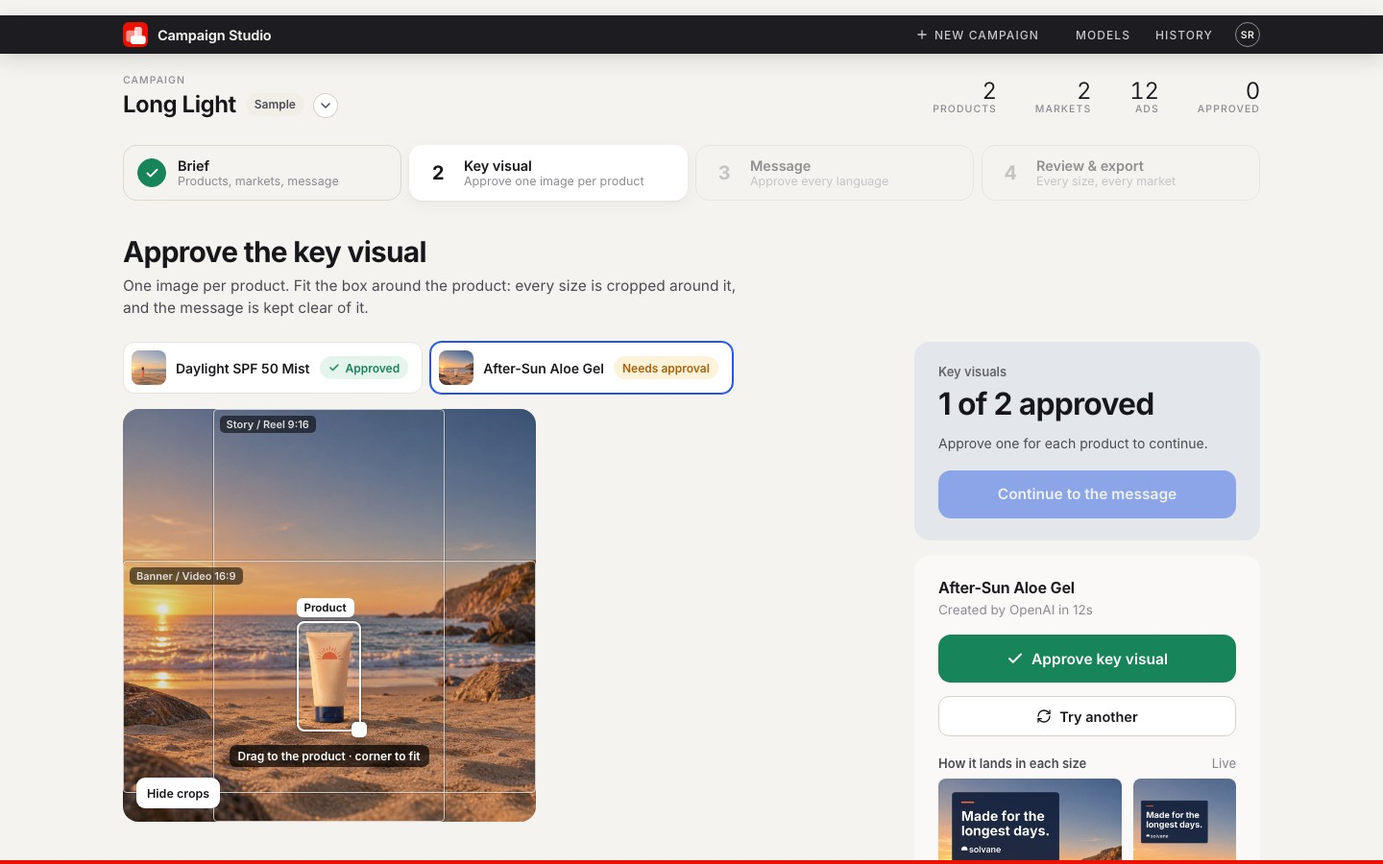
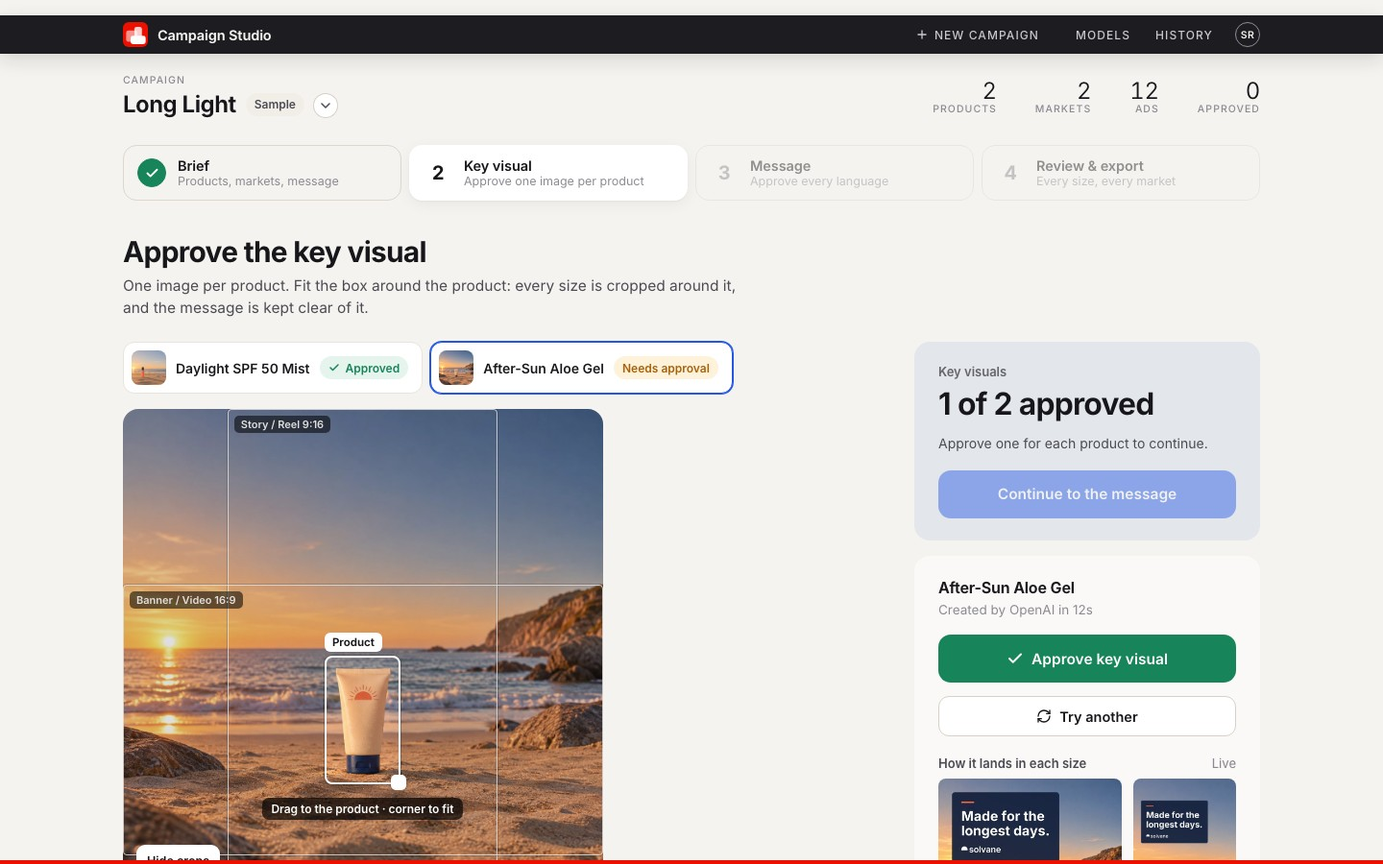
Grow the key visual image to 500px
With the bottom bar gone there is room for it: the image is sized to the
window, 500px at 900px tall. The README screenshot is retaken to match.

Changed region(s): [[0.0625, 0.4667, 0.4375, 0.9956], [0.1562, 0.4667, 0.25, 0.4978]]

diff --git a/web/dist/assets/index-BcPyHxCU.css b/web/dist/assets/index-BcPyHxCU.css
@@ -1,0 +1,1 @@
+@font-face{font-family:Inter Variable;font-style:normal;font-display:swap;font-weight:100 900;src:url(/assets/inter-cyrillic-ext-wght-normal-B2xhLi22.woff2) format("woff2-variations");unicode-range:U+0460-052F,U+1C80-1C88,U+20B4,U+2DE0-2DFF,U+A640-A69F,U+FE2E-FE2F}@font-face{font-family:Inter Variable;font-style:normal;font-display:swap;font-weight:100 900;src:url(/assets/inter-cyrillic-wght-normal-CMZtQduZ.woff2) format("woff2-variations");unicode-range:U+0301,U+0400-045F,U+0490-0491,U+04B0-04B1,U+2116}@font-face{font-family:Inter Variable;font-style:normal;font-display:swap;font-weight:100 900;src:url(/assets/inter-greek-ext-wght-normal-CGAr0uHJ.woff2) format("woff2-variations");unicode-range:U+1F00-1FFF}@font-face{font-family:Inter Variable;font-style:normal;font-display:swap;font-weight:100 900;src:url(/assets/inter-greek-wght-normal-CaVNZxsx.woff2) format("woff2-variations");unicode-range:U+0370-0377,U+037A-037F,U+0384-038A,U+038C,U+038E-03A1,U+03A3-03FF}@font-face{font-family:Inter Variable;font-style:normal;font-display:swap;font-weight:100 900;src:url(/assets/inter-vietnamese-wght-normal-CBcvBZtf.woff2) format("woff2-variations");unicode-range:U+0102-0103,U+0110-0111,U+0128-0129,U+0168-0169,U+01A0-01A1,U+01AF-01B0,U+0300-0301,U+0303-0304,U+0308-0309,U+0323,U+0329,U+1EA0-1EF9,U+20AB}@font-face{font-family:Inter Variable;font-style:normal;font-display:swap;font-weight:100 900;src:url(/assets/inter-latin-ext-wght-normal-CFHvXkgd.woff2) format("woff2-variations");unicode-range:U+0100-02AF,U+0304,U+0308,U+0329,U+1E00-1E9F,U+1EF2-1EFF,U+2020,U+20A0-20AB,U+20AD-20C0,U+2113,U+2C60-2C7F,U+A720-A7FF}@font-face{font-family:Inter Variable;font-style:normal;font-display:swap;font-weight:100 900;src:url(/assets/inter-latin-wght-normal-C2S99t-D.woff2) format("woff2-variations");unicode-range:U+0000-00FF,U+0131,U+0152-0153,U+02BB-02BC,U+02C6,U+02DA,U+02DC,U+0304,U+0308,U+0329,U+2000-206F,U+2074,U+20AC,U+2122,U+2191,U+2193,U+2212,U+2215,U+FEFF,U+FFFD}:root{--bg: #f5f3ef;--surface: #ffffff;--surface-2: #faf9f6;--ink: #17171b;--ink-2: #4b4b53;--ink-3: #8b8a92;--line: #e8e4dd;--line-strong: #d7d1c7;--hover: #f1eee8;--tile: #ebe7e0;--step-line: #ddd7cd;--focus: #2f6bff;--action: #2456e6;--action-hover: #1c46c4;--action-ring: rgba(36, 86, 230, .16);--adobe: #eb1000;--adobe-bg: #fdecea;--ok: #17845a;--ok-bg: #e5f4ec;--warn: #a8610a;--warn-bg: #fff2db;--fail: #c4311c;--fail-bg: #fde8e3;--radius: 16px;--radius-sm: 10px;--shadow: 0 1px 2px rgba(23, 23, 27, .04), 0 4px 16px rgba(23, 23, 27, .05);--shadow-lg: 0 2px 6px rgba(23, 23, 27, .06), 0 24px 60px rgba(23, 23, 27, .16);font-family:Inter Variable,system-ui,-apple-system,Segoe UI,sans-serif;font-feature-settings:"cv11","ss01";color:var(--ink);background:var(--bg);-webkit-font-smoothing:antialiased}*{box-sizing:border-box}html,body,#root{margin:0;min-height:100%}body{background:var(--bg)}button,input,textarea,select{font:inherit;color:inherit}img{display:block;max-width:100%}:focus-visible{outline:2px solid var(--focus);outline-offset:2px;border-radius:6px}:root{--bar-gap: 16px;--bar-h: 40px;--bar-bg: #1d1d21;--bar-ink: #f4f3f0;--bar-ink-2: #c9c8ce;--bar-ink-3: #8f8e96;--bar-hover: rgba(255, 255, 255, .08)}.topbar{position:sticky;top:var(--bar-gap);z-index:30;margin-top:var(--bar-gap);display:flex;align-items:center;gap:16px;height:var(--bar-h);padding:0 max(16px,calc((100% - 1184px)/2));background:var(--bar-bg);color:var(--bar-ink);box-shadow:0 6px 20px #17171b24}.topbar-left{display:flex;align-items:center;gap:10px;min-width:0}.wordmark{font-size:14.5px;font-weight:650;letter-spacing:-.01em;white-space:nowrap}.wordmark-mark{width:26px;height:26px;border-radius:6px;background:var(--adobe);color:#fff;display:grid;place-items:center;flex:none}.topbar .spacer{flex:1}.topbar .menu{color:var(--ink)}.topbar-right{display:flex;align-items:center;gap:4px}.bar-link{display:inline-flex;align-items:center;gap:6px;height:28px;padding:0 11px;border:0;border-radius:7px;background:transparent;cursor:pointer;font-size:12px;font-weight:500;letter-spacing:.09em;text-transform:uppercase;color:var(--bar-ink-2)}.bar-link:hover,.bar-link[aria-expanded=true]{color:var(--bar-ink);background:var(--bar-hover)}.new-campaign-slot{margin-right:12px}.menu.new-campaign-form{min-width:340px;padding:10px}.avatar{width:26px;height:26px;border-radius:50%;cursor:pointer;margin-left:8px;padding:0;display:grid;place-items:center;font-size:10.5px;font-weight:600;letter-spacing:.03em;background:transparent;color:var(--bar-ink);border:1.5px solid var(--bar-ink-3);transition:border-color .15s}.avatar:hover,.avatar[aria-expanded=true]{border-color:var(--bar-ink)}.camphead-inner{max-width:1240px;margin:0 auto;padding:22px 28px 4px}.camphead-row{display:flex;align-items:center;justify-content:space-between;gap:32px}.camphead-title{flex:1;min-width:0}.campaign-slot{position:relative}.camphead-title .campaign-slot{display:flex;align-items:center}.campaign-switch{display:inline-flex;align-items:center;gap:10px;max-width:100%;padding:0;border:0;background:transparent;cursor:pointer;color:inherit;text-align:left}.campaign-name{font-size:24px;line-height:1.2;font-weight:650;letter-spacing:-.02em;white-space:nowrap;overflow:hidden;text-overflow:ellipsis}.campaign-switch .badge{flex:none}.campaign-chevron{flex:none;width:24px;height:24px;border-radius:50%;display:grid;place-items:center;margin-top:2px;background:var(--surface);color:var(--ink-2);box-shadow:0 0 0 1px var(--line-strong);transition:box-shadow .15s,color .15s}.campaign-switch:hover .campaign-chevron,.campaign-switch[aria-expanded=true] .campaign-chevron{box-shadow:0 0 0 1px var(--ink-3),var(--shadow);color:var(--ink)}.camp-stats{display:flex;gap:40px;margin:0}.camp-stat{display:flex;flex-direction:column;align-items:flex-end;text-align:right}.camp-stat dd{margin:0;font-size:24px;line-height:1.15;font-weight:350;letter-spacing:-.01em;font-variant-numeric:tabular-nums}.camp-label{font-size:10.5px;line-height:1.2;font-weight:500;letter-spacing:.1em;text-transform:uppercase;color:var(--ink-3);margin-bottom:4px}.camp-stat dt{font-size:10.5px;line-height:1.2;font-weight:500;letter-spacing:.1em;text-transform:uppercase;color:var(--ink-3)}.stepper{display:grid;grid-template-columns:repeat(4,1fr);gap:8px;max-width:1240px;margin:24px auto 0;padding:0 28px}.step{position:relative;display:flex;align-items:center;gap:12px;padding:12px 14px;border-radius:14px;border:1px solid transparent;background:transparent;cursor:pointer;text-align:left}.step{transition:background .15s,box-shadow .15s}.step{border-color:var(--step-line)}.step:not(:disabled):hover{background:var(--tile)}.step:disabled{cursor:default;opacity:.45}.step.current,.step.current:hover{background:var(--surface);border-color:transparent;box-shadow:var(--shadow)}.step-num{width:30px;height:30px;flex:none;border-radius:50%;display:grid;place-items:center;font-size:20px;font-weight:700;letter-spacing:-.02em;border:1.5px solid transparent;color:var(--ink-3);background:transparent;font-variant-numeric:tabular-nums}.step.current .step-num{color:var(--ink)}.step.done .step-num{background:var(--ok);border-color:var(--ok);color:#fff}.step-text{display:flex;flex-direction:column;min-width:0}.step-title{font-weight:600;font-size:14.5px;letter-spacing:-.005em}.step-sub{font-size:12.5px;color:var(--ink-3);white-space:nowrap;overflow:hidden;text-overflow:ellipsis}.page{max-width:1240px;margin:0 auto;padding:28px 28px 72px}.page-head{display:flex;align-items:flex-end;justify-content:space-between;gap:24px;margin:8px 0 24px}.page-head h1{font-size:30px;line-height:1.15;letter-spacing:-.025em;font-weight:680;margin:0 0 6px}.page-head p{margin:0;color:var(--ink-2);font-size:15.5px;max-width:640px;line-height:1.5}.grid-2{display:grid;grid-template-columns:minmax(0,1fr) 360px;gap:24px;align-items:start}.grid-2>aside.stack{gap:16px}@media (max-width: 1000px){.grid-2{grid-template-columns:1fr}.grid-2 .sticky{position:static}}.card{--card-rest: rgba(255, 255, 255, .5);--card-lift: 0 2px 6px rgba(23, 23, 27, .06), 0 14px 36px rgba(23, 23, 27, .12);background:var(--card-rest);border:1px solid transparent;border-radius:var(--radius);transition:background .2s,box-shadow .2s}.card:hover,.card:focus-within{background:var(--surface);box-shadow:var(--card-lift)}.card-pad{padding:22px 24px}.summary-panel{--summary-bg: #e3e6ea;--ink-3: #65646c;padding:22px 24px;border:1px solid transparent;border-radius:var(--radius);background:var(--summary-bg)}.card+.card{margin-top:16px}.card-title{display:flex;align-items:center;justify-content:space-between;gap:12px;margin:0 0 4px;font-size:16px;font-weight:640;letter-spacing:-.01em}.card-hint{margin:0 0 18px;color:var(--ink-3);font-size:13.5px;line-height:1.45}.sticky{position:sticky;top:calc(var(--bar-gap) + var(--bar-h) + 20px)}.muted{color:var(--ink-3)}.small{font-size:13px}.row{display:flex;align-items:center;gap:10px}.row-wrap{display:flex;flex-wrap:wrap;gap:8px}.stack{display:flex;flex-direction:column;gap:14px}.space{flex:1}.field{display:flex;flex-direction:column;gap:7px}.field+.field{margin-top:16px}.label{font-size:13px;font-weight:600;color:var(--ink-2);display:flex;justify-content:space-between}.label .muted{font-weight:450}.input,.textarea{width:100%;border:1px solid var(--line-strong);border-radius:var(--radius-sm);background:var(--surface);padding:11px 13px;font-size:15px;line-height:1.45;transition:border-color .15s,box-shadow .15s}.textarea{resize:vertical;min-height:80px}.input:hover,.textarea:hover{border-color:var(--ink-3)}.input:focus,.textarea:focus{outline:none;border-color:var(--action);box-shadow:0 0 0 3px var(--action-ring)}.input.big{font-size:22px;font-weight:620;letter-spacing:-.015em;padding:12px 14px}.input.invalid,.textarea.invalid{border-color:var(--fail)}.field-note{font-size:12.5px;color:var(--ink-3)}.field-note.fail{color:var(--fail)}a.btn{text-decoration:none}.btn{display:inline-flex;align-items:center;justify-content:center;gap:8px;height:42px;padding:0 18px;border-radius:11px;border:1px solid transparent;font-size:14.5px;font-weight:600;cursor:pointer;white-space:nowrap;transition:background .15s,border-color .15s,transform .05s,opacity .15s}.btn:active:not(:disabled){transform:translateY(1px)}.btn:disabled{opacity:.45;cursor:not-allowed}.btn-primary{background:var(--action);color:#fff}.btn-primary:hover:not(:disabled){background:var(--action-hover)}.btn-approve{background:var(--ok);color:#fff}.btn-approve:hover:not(:disabled){background:#106e4a}.btn-secondary{background:var(--surface);border-color:var(--line-strong);color:var(--ink)}.btn-secondary:hover:not(:disabled){border-color:var(--ink-3);background:var(--surface-2)}.btn-ghost{background:transparent;color:var(--ink-2)}.btn-ghost:hover:not(:disabled){background:var(--hover);color:var(--ink)}.btn-danger{background:var(--surface);border-color:var(--line-strong);color:var(--fail)}.btn-danger:hover:not(:disabled){border-color:var(--fail);background:var(--fail-bg)}.btn-lg{height:50px;padding:0 24px;font-size:15.5px;border-radius:13px}.btn-sm{height:34px;padding:0 12px;font-size:13.5px;border-radius:9px}.btn-block{width:100%}.icon-btn{width:34px;height:34px;padding:0;border-radius:9px}.badge{display:inline-flex;align-items:center;gap:6px;height:24px;padding:0 9px;border-radius:999px;font-size:12px;font-weight:600;white-space:nowrap;background:var(--hover);color:var(--ink-2)}.badge.ok{background:var(--ok-bg);color:var(--ok)}.badge.warn{background:var(--warn-bg);color:var(--warn)}.badge.fail{background:var(--fail-bg);color:var(--fail)}.market-chip{display:inline-flex;align-items:center;gap:8px;height:38px;padding:0 8px 0 12px;border-radius:999px;border:1px solid var(--line-strong);background:var(--surface);font-size:14px;font-weight:550}.market-chip .flag{font-size:12px;font-weight:700;color:var(--ink-3);letter-spacing:.04em}.market-chip button{border:0;background:transparent;width:24px;height:24px;border-radius:50%;display:grid;place-items:center;cursor:pointer;color:var(--ink-3)}.market-chip button:hover{background:var(--hover);color:var(--ink)}.add-market{position:relative}.menu{position:absolute;z-index:40;top:calc(100% + 6px);left:0;min-width:240px;background:var(--surface);border:1px solid var(--line);border-radius:12px;box-shadow:var(--shadow-lg);padding:6px;max-height:320px;overflow:auto}.menu-item{display:flex;width:100%;align-items:center;justify-content:space-between;gap:10px;padding:9px 10px;border:0;background:transparent;border-radius:8px;cursor:pointer;text-align:left;font-size:14px}.menu-item:hover{background:var(--hover)}.menu-row{display:flex;align-items:center;gap:2px}.menu-row .menu-item{flex:1;min-width:0}.menu-row-delete{flex:none;width:32px;height:32px;border:0;border-radius:8px;background:transparent;color:var(--ink-3);cursor:pointer;display:grid;place-items:center;opacity:0}.menu-row:hover .menu-row-delete,.menu-row-delete:focus-visible{opacity:1}.menu-row-delete:hover{background:var(--fail-bg);color:var(--fail)}@media (hover: none){.menu-row-delete{opacity:1}}.menu-confirm{display:flex;flex-direction:column;gap:8px;padding:10px;margin:2px 0;border-radius:8px;background:var(--fail-bg);font-size:13.5px;line-height:1.4}.menu-confirm .row{justify-content:flex-end}.menu-item .muted{font-size:12.5px}.product-card-head{grid-column:1 / -1;display:flex;align-items:center;justify-content:space-between;margin-bottom:-10px}.product-card{display:grid;grid-template-columns:148px minmax(0,1fr);gap:20px;padding:18px;border:1px solid var(--line);border-radius:14px;background:var(--surface-2)}.product-card+.product-card{margin-top:12px}.dropzone{position:relative;width:148px;height:148px;border-radius:12px;overflow:hidden;border:1.5px dashed var(--line-strong);background:var(--surface);display:flex;flex-direction:column;align-items:center;justify-content:center;gap:6px;text-align:center;padding:10px;cursor:pointer;color:var(--ink-3);font-size:12.5px;line-height:1.35;transition:border-color .15s,background .15s}.dropzone:hover,.dropzone.over{border-color:var(--action);color:var(--ink-2);background:var(--hover)}.dropzone img{position:absolute;top:0;right:0;bottom:0;left:0;width:100%;height:100%;object-fit:cover}.dropzone .remove{position:absolute;top:6px;right:6px;z-index:2;width:26px;height:26px;border-radius:50%;border:0;background:#0009;color:#fff;display:grid;place-items:center;cursor:pointer}.dropzone .tag{position:absolute;left:6px;bottom:6px;z-index:2;padding:3px 7px;border-radius:6px;background:#0000009e;color:#fff;font-size:11px;font-weight:600}.swatch{width:34px;height:34px;border-radius:9px;border:1px solid rgba(0,0,0,.08)}.logo-box{height:56px;padding:12px 16px;border-radius:10px;background:var(--surface-2);border:1px solid var(--line);display:inline-flex;align-items:center}.logo-box img{max-height:100%;width:auto}.summary-label{font-size:13px;font-weight:600;color:var(--ink-3);margin-bottom:8px}.summary-figure{font-size:32px;font-weight:650;letter-spacing:-.025em;line-height:1.1}.summary-detail{font-size:14px;color:var(--ink-2);line-height:1.5;margin:12px 0 18px}.equation{display:flex;align-items:center;gap:8px;flex-wrap:wrap;color:var(--ink-2);font-size:14px;margin:12px 0 18px}.equation b{color:var(--ink);font-weight:650}.format-icons{display:grid;grid-template-columns:repeat(3,1fr);align-items:end;gap:10px;margin:6px 0 20px}.format-icon{display:flex;flex-direction:column;align-items:center;gap:6px;font-size:11.5px;color:var(--ink-3)}.format-icon span:first-child{background:var(--ink-2);border-radius:5px;display:block}.format-icon:nth-child(1) span:first-child{opacity:.55}.format-icon:nth-child(2) span:first-child{opacity:.8}.problems{margin:0 0 16px;padding:12px 14px;border-radius:12px;background:var(--warn-bg);color:var(--warn);font-size:13.5px;line-height:1.5}.problems ul{margin:4px 0 0;padding-left:18px}.product-tabs{display:flex;gap:8px;margin-bottom:16px;flex-wrap:wrap}.product-tab{display:flex;align-items:center;gap:10px;padding:8px 14px 8px 8px;border-radius:12px;border:1px solid var(--line);background:var(--surface);cursor:pointer;font-weight:580;font-size:14px}.product-tab img,.product-tab .thumb{width:36px;height:36px;border-radius:8px;object-fit:cover;background:var(--hover)}.product-tab.active{border-color:var(--action);box-shadow:0 0 0 1px var(--action)}.stage{position:relative;border-radius:var(--radius);overflow:hidden;background:#e9e5de;aspect-ratio:1 / 1;-webkit-user-select:none;user-select:none;touch-action:none;width:min(100%,calc(100vh - 400px));min-width:320px}.stage img.loading{opacity:0}.stage img{transition:opacity .2s}.stage-loading{position:absolute;top:0;right:0;bottom:0;left:0;display:grid;place-items:center;color:var(--ink-3);background:linear-gradient(100deg,#e9e5de 30%,#f1ede7,#e9e5de 70%) 0 0 / 300% 100%;animation:shimmer 1.4s linear infinite}@keyframes shimmer{to{background-position:-150% 0}}.stage img{width:100%;height:100%;object-fit:cover;pointer-events:none}.stage.can-drag{cursor:crosshair}.crop-guide{position:absolute;border:1.5px solid rgba(255,255,255,.85);border-radius:4px;pointer-events:none;box-shadow:0 0 0 1px #0000002e;transition:all .2s ease}.crop-guide span{position:absolute;top:6px;left:6px;padding:2px 7px;border-radius:5px;background:#0000008c;color:#fff;font-size:11px;font-weight:600;white-space:nowrap}.crop-guide.dim{border-style:dashed;opacity:.7}.focal{position:absolute;width:46px;height:46px;margin:-23px 0 0 -23px;border-radius:50%;border:2.5px solid #fff;box-shadow:0 0 0 1px #00000040,0 6px 18px #0000004d,inset 0 0 0 1px #00000026;cursor:grab;display:grid;place-items:center;background:#ffffff26;transition:transform .15s}.focal:after{content:"";width:8px;height:8px;border-radius:50%;background:#fff;box-shadow:0 0 0 1px #0000004d}.focal.dragging{cursor:grabbing;transform:scale(1.12)}.product-box{position:absolute;border:2px solid #fff;border-radius:8px;cursor:move;box-shadow:0 0 0 1px #00000040,0 0 0 9999px #0000001f;transition:box-shadow .15s}.product-box.active{box-shadow:0 0 0 1px #00000040,0 0 0 9999px #00000047}.product-box.locked{cursor:default;box-shadow:0 0 0 1px #00000040}.product-box-label{position:absolute;top:-26px;left:-2px;padding:3px 8px;border-radius:6px;background:#fff;color:var(--ink);font-size:11.5px;font-weight:650;white-space:nowrap;pointer-events:none}.product-box-handle{position:absolute;right:-8px;bottom:-8px;width:16px;height:16px;border-radius:5px;background:#fff;box-shadow:0 1px 4px #00000059;cursor:nwse-resize}.focal-label{position:absolute;transform:translate(-50%,14px);padding:4px 9px;border-radius:7px;background:#000000ad;color:#fff;font-size:12px;font-weight:600;white-space:nowrap;pointer-events:none}.stage-toolbar{position:absolute;left:14px;bottom:14px;display:flex;gap:6px}.stage-toolbar button{height:32px;padding:0 11px;border-radius:9px;border:0;cursor:pointer;font-size:12.5px;font-weight:600;background:#0000008c;color:#fff;-webkit-backdrop-filter:blur(6px);backdrop-filter:blur(6px)}.stage-toolbar button.on{background:#fff;color:var(--ink)}.generating{position:absolute;top:0;right:0;bottom:0;left:0;display:flex;flex-direction:column;align-items:center;justify-content:center;gap:14px;background:linear-gradient(110deg,#ece8e1 8%,#f7f5f1 18%,#ece8e1 33%);background-size:200% 100%;animation:shimmer 1.4s linear infinite;color:var(--ink-2);text-align:center;padding:24px}.generating strong{font-size:17px;color:var(--ink);letter-spacing:-.01em}@keyframes shimmer{to{background-position-x:-200%}}.mini-previews{display:grid;grid-template-columns:1fr .5625fr;gap:12px;align-items:end}.mini-previews .mini:nth-child(3){grid-column:1 / -1}.mini{display:flex;flex-direction:column;gap:6px}.mini-img{border-radius:8px;overflow:hidden;background:var(--hover);position:relative}.mini-img img{width:100%;height:100%;object-fit:cover}.mini-label{font-size:11.5px;color:var(--ink-3);display:flex;justify-content:space-between;gap:4px}.details{border-top:1px solid var(--line);margin-top:16px;padding-top:12px}.details summary{cursor:pointer;font-size:13px;font-weight:600;color:var(--ink-2);list-style:none;display:flex;align-items:center;gap:6px}.details summary::-webkit-details-marker{display:none}.details p{font-size:13px;color:var(--ink-2);line-height:1.55;margin:10px 0 0}.approved-stamp{display:flex;align-items:center;gap:10px;padding:12px 14px;border-radius:12px;background:var(--ok-bg);color:var(--ok);font-size:14px;font-weight:600}.approved-stamp .muted{color:var(--ok);opacity:.8;font-weight:500}.lang-card{display:grid;grid-template-columns:minmax(0,1fr) 340px;gap:28px}@media (max-width: 1000px){.lang-card{grid-template-columns:1fr}}.lang-head{display:flex;align-items:center;gap:10px;margin-bottom:14px}.lang-head h3{margin:0;font-size:17px;font-weight:650;letter-spacing:-.01em}.source-line{font-size:14px;color:var(--ink-3);margin-bottom:10px}.source-line b{color:var(--ink-2);font-weight:550}.copy-input{font-size:22px;font-weight:620;letter-spacing:-.015em;line-height:1.35;min-height:0}.meaning{margin-top:10px;font-size:14px;color:var(--ink-2);line-height:1.5}.meaning b{font-weight:600}.note{margin-top:8px;font-size:13px;color:var(--ink-3);line-height:1.5}.lang-main{display:flex;flex-direction:column;min-width:0}.lang-actions{margin-top:auto;padding-top:18px}.copy-locked{padding:12px 0 4px;color:var(--ink)}.preview-wrap{border-radius:12px;overflow:hidden;background:var(--hover);position:relative}.preview-wrap img{width:100%}.preview-wrap.loading img{opacity:.6;transition:opacity .2s}.seg{display:inline-flex;padding:3px;border-radius:10px;background:var(--hover);gap:2px}.seg button{white-space:nowrap;height:28px;padding:0 9px;border:0;border-radius:8px;background:transparent;cursor:pointer;font-size:12.5px;font-weight:600;color:var(--ink-3)}.seg button.on{background:var(--surface);color:var(--ink);box-shadow:0 1px 2px #00000014}.review-bar{display:flex;align-items:center;gap:12px;flex-wrap:wrap;margin-bottom:20px}.stat{display:flex;flex-direction:column;align-items:flex-start;padding:14px 18px;border-radius:14px;background:var(--surface);border:1px solid var(--line);min-width:120px;cursor:pointer;text-align:left;transition:border-color .15s,box-shadow .15s,transform .05s}.stat:hover{border-color:var(--ink-3)}.stat:active{transform:translateY(1px)}.stat.on{border-color:var(--action);box-shadow:0 0 0 1px var(--action),var(--shadow)}.stat b{font-size:26px;font-weight:700;letter-spacing:-.03em;line-height:1.1}.stat span{font-size:12.5px;color:var(--ink-3);font-weight:550}.product-section+.product-section{margin-top:36px}.product-section h2{font-size:19px;font-weight:650;letter-spacing:-.015em;margin:0 0 14px;display:flex;align-items:center;gap:10px}.sheet-row{display:grid;grid-template-columns:140px minmax(0,1fr);gap:20px;align-items:start;padding:16px 0;border-top:1px solid var(--line)}.sheet-row-label{display:flex;flex-direction:column;gap:2px;font-size:14px;padding-top:4px}.sheet-row-label .muted{font-size:12.5px}.sheet{display:flex;flex-wrap:wrap;gap:20px 18px;align-items:flex-start}.tile{display:flex;flex-direction:column;gap:8px;border:0;padding:0;background:transparent;cursor:pointer;text-align:left}.tile-img{position:relative;border-radius:10px;overflow:hidden;background:var(--hover);box-shadow:0 0 0 1px var(--line);transition:box-shadow .15s,transform .15s}.tile:hover .tile-img{box-shadow:0 0 0 2px var(--action);transform:translateY(-2px)}.tile-img img{width:100%;height:100%;object-fit:cover}.tile-img.decided-approved{box-shadow:0 0 0 2.5px var(--ok)}.tile-img.decided-rejected{box-shadow:0 0 0 2.5px var(--fail)}.tile-img.decided-rejected img{opacity:.45;filter:grayscale(.6)}.tile-meta{display:flex;flex-direction:column;gap:1px;font-size:12.5px;color:var(--ink-2);font-weight:580;line-height:1.35}.tile-meta .muted{font-weight:500}.tile-status{position:absolute;top:8px;right:8px}.marker{position:absolute;border:2px solid;border-radius:6px;pointer-events:none}.marker.warn{border-color:#ffb547;background:#ffb54724}.marker.fail{border-color:#ff5a3c;background:#ff5a3c29}.marker-pin{position:absolute;top:-11px;left:-11px;width:22px;height:22px;border-radius:50%;display:grid;place-items:center;font-size:11.5px;font-weight:700;color:#fff}.marker.warn .marker-pin{background:#e8930c}.marker.fail .marker-pin{background:#e03a1f}.lightbox{position:fixed;top:0;right:0;bottom:0;left:0;z-index:50;background:#121214b8;-webkit-backdrop-filter:blur(4px);backdrop-filter:blur(4px);display:flex;align-items:center;justify-content:center;padding:32px}.lightbox-panel{display:grid;grid-template-columns:minmax(0,1fr) 380px;width:min(1280px,100%);max-height:calc(100vh - 64px);background:var(--surface);border-radius:20px;overflow:hidden;box-shadow:var(--shadow-lg)}.lightbox-stage{background:#1d1d21;display:flex;align-items:center;justify-content:center;padding:28px;min-height:0}.lightbox-stage .frame{position:relative;max-height:calc(100vh - 120px)}.lightbox-stage .frame img{max-height:calc(100vh - 120px);width:auto;border-radius:6px}.lightbox-side{padding:24px;display:flex;flex-direction:column;gap:16px;overflow:auto}.check-list{display:flex;flex-direction:column;gap:2px;margin:0;padding:0;list-style:none}.check-item{display:grid;grid-template-columns:22px minmax(0,1fr);gap:10px;padding:9px 4px;border-bottom:1px solid var(--line);font-size:13.5px}.check-item:last-child{border-bottom:0}.check-item .ci-label{font-weight:600}.check-item .ci-msg{color:var(--ink-3);font-size:12.5px;margin-top:2px;line-height:1.45}.check-icon{width:20px;height:20px;border-radius:50%;display:grid;place-items:center;color:#fff;font-size:11px;font-weight:700;margin-top:1px}.check-icon.pass{background:var(--ok)}.check-icon.warn{background:#e8930c}.check-icon.fail{background:#e03a1f}.close-x{position:absolute;top:18px;right:18px}.scrim{position:fixed;top:0;right:0;bottom:0;left:0;z-index:60;background:#1212145c}.drawer{position:fixed;z-index:61;top:0;right:0;bottom:0;width:min(440px,100vw);background:var(--surface);box-shadow:var(--shadow-lg);padding:28px;overflow:auto;animation:slideIn .22s ease}@keyframes slideIn{0%{transform:translate(24px);opacity:0}}.drawer h2,.modal h2{margin:0 0 6px;font-size:21px;letter-spacing:-.02em}.option{display:flex;gap:14px;align-items:flex-start;width:100%;padding:14px;margin-top:10px;border-radius:13px;border:1px solid var(--line-strong);background:var(--surface);cursor:pointer;text-align:left}.option.on{border-color:var(--action);box-shadow:0 0 0 1px var(--action)}.option:disabled{cursor:not-allowed;opacity:.6}.radio{width:18px;height:18px;border-radius:50%;border:1.5px solid var(--line-strong);flex:none;margin-top:2px;display:grid;place-items:center}.option.on .radio{border-color:var(--action)}.option.on .radio:after{content:"";width:9px;height:9px;border-radius:50%;background:var(--action)}.option-title{font-weight:620;font-size:14.5px;display:flex;gap:8px;align-items:center}.option-detail{font-size:13px;color:var(--ink-3);margin-top:3px;line-height:1.45}.modal{position:fixed;z-index:61;top:50%;left:50%;transform:translate(-50%,-50%);width:min(440px,calc(100vw - 32px));background:var(--surface);border-radius:18px;box-shadow:var(--shadow-lg);padding:26px}.toast{position:fixed;z-index:80;left:50%;bottom:28px;transform:translate(-50%);max-width:min(560px,calc(100vw - 32px));padding:13px 16px 13px 18px;border-radius:13px;background:var(--ink);color:#fff;font-size:14px;line-height:1.45;box-shadow:var(--shadow-lg);display:flex;gap:12px;align-items:flex-start;animation:toastIn .2s ease}.toast.error{background:#7c1d10}.toast button{border:0;background:transparent;color:#fff;opacity:.7;cursor:pointer;padding:0}@keyframes toastIn{0%{transform:translate(-50%,8px);opacity:0}}body:after{content:"";position:fixed;z-index:90;left:0;right:0;bottom:0;height:4px;background:var(--adobe);pointer-events:none}.spin{animation:spin .9s linear infinite}@keyframes spin{to{transform:rotate(360deg)}}.empty{padding:60px 20px;text-align:center;color:var(--ink-3)}.history-item{display:grid;grid-template-columns:74px minmax(0,1fr);gap:10px;padding:9px 0;border-bottom:1px solid var(--line);font-size:13px}.history-item .when{color:var(--ink-3);font-variant-numeric:tabular-nums}@media (max-width: 860px){.new-campaign-slot{margin-right:4px}.bar-action-label{display:none}.bar-action{padding:0 9px}.new-campaign-form{left:auto;right:0}.camphead-inner{padding:18px 16px 4px}.camp-stats{display:none}.campaign-name{font-size:20px}.stepper{grid-template-columns:repeat(4,auto);overflow-x:auto;padding:0 16px}.step-sub{display:none}.page{padding:20px 16px 56px}.lightbox-panel{grid-template-columns:1fr;overflow:auto}.product-card{grid-template-columns:1fr}}.badge.adobe{background:var(--adobe-bg);color:var(--adobe)}.menu-heading{padding:10px 10px 4px;font-size:11.5px;font-weight:650;letter-spacing:.02em;text-transform:uppercase;color:var(--ink-3)}.menu-heading .muted{text-transform:none;font-weight:500;letter-spacing:0}.modal:has(.setup-modal){width:min(520px,calc(100vw - 32px));max-height:calc(100vh - 48px);overflow:auto}.setup-list{margin:18px 0 12px;padding-left:20px;display:flex;flex-direction:column;gap:14px}.setup-list li::marker{font-weight:700;color:var(--ink-3)}.setup-title{font-weight:640;font-size:14.5px;display:flex;align-items:center;gap:8px;flex-wrap:wrap}.setup-body{font-size:13.5px;color:var(--ink-2);line-height:1.55;margin-top:3px}.involved{margin:10px 0 0;padding-left:18px;display:flex;flex-direction:column;gap:8px;font-size:13.5px;color:var(--ink-2);line-height:1.5}.involved b{color:var(--ink);font-weight:620}.error-note{display:grid;grid-template-columns:auto minmax(0,1fr);gap:4px 10px;align-items:start;padding:12px 14px;border-radius:12px;background:var(--fail-bg, #fdecea);color:var(--fail);font-size:13.5px;line-height:1.45;text-align:left}.error-note>svg{margin-top:2px}.error-note>span{color:var(--ink)}.error-note-actions{grid-column:2;display:flex;align-items:center;gap:6px;margin-top:6px}.error-note-close{margin-left:auto;border:0;background:transparent;color:var(--ink-3);cursor:pointer;padding:4px;border-radius:6px}.error-note-close:hover{background:var(--hover)}.stat-flag{font-style:normal;color:var(--warn);font-weight:600}.btn kbd{font:600 11px/1 var(--font, inherit);min-width:18px;height:18px;padding:0 5px;margin-left:4px;display:inline-grid;place-items:center;border-radius:5px;border:1px solid currentColor;opacity:.55}.signin{min-height:100vh;display:grid;place-items:center;padding:32px 16px}.signin-card{width:min(452px,100%);background:var(--surface);border:1px solid var(--line);border-radius:20px;padding:32px;box-shadow:var(--shadow-lg)}.signin-card h1{margin:0 0 4px;font-size:26px;letter-spacing:-.02em}.signin-card>p.muted{margin:0}.signin-card>p.signin-demo{margin:20px 0 0;line-height:1.55;padding:12px 14px;border-radius:12px;background:var(--surface-2);border:1px solid var(--line)}.signin-demo code{font-size:12.5px}.user-menu{right:0;left:auto;min-width:240px}.user-menu-head{padding:10px 10px 8px}.user-menu-head b{display:block}.signin-brand{display:flex;align-items:center;gap:10px;margin-bottom:28px}.tagline{font-size:12.5px;font-weight:500;color:var(--ink-3);padding-left:10px;margin-left:2px;border-left:1px solid var(--line-strong);white-space:nowrap}.option-group{margin-top:24px}.option-group h3{margin:0 0 2px;font-size:13px;font-weight:650;letter-spacing:.04em;text-transform:uppercase;color:var(--ink-3)}.option.connectable{display:block;padding:0;cursor:default}.option.connectable.open{border-color:var(--ink-3)}.option-head{display:flex;gap:14px;align-items:flex-start;width:100%;padding:14px;border:0;background:transparent;cursor:pointer;text-align:left;border-radius:13px}.option-head:hover .connect-link{text-decoration:underline}.option-head>span:nth-child(2){flex:1;min-width:0}.connect-link{flex:none;align-self:center;font-size:13.5px;font-weight:620;color:var(--ink)}.connect-form{padding:2px 14px 14px 46px;display:flex;flex-direction:column;gap:10px}.connect-form .label{margin-bottom:-4px}.connect-note{margin:0;font-size:12.5px;color:var(--ink-3);line-height:1.45}.connect-form details{font-size:12.5px;color:var(--ink-2);line-height:1.5}.connect-form summary{cursor:pointer;color:var(--ink-2);font-weight:600}.connect-form ol{margin:6px 0 0;padding-left:18px}@media (max-width: 560px){.wordmark{display:none}.topbar{gap:8px}.topbar-right{gap:0}.bar-link{padding:0 8px;letter-spacing:.06em}.new-campaign-slot{margin-right:0}.new-campaign-slot{position:static}.menu.new-campaign-form{left:12px;right:12px;min-width:0}.avatar{margin-left:4px}.stepper{scrollbar-width:none}.stepper::-webkit-scrollbar{display:none}.step-title{white-space:nowrap}.camphead-inner{padding-top:16px}.page-head{flex-direction:column;align-items:stretch;gap:14px}.page-head h1{font-size:26px}}

diff --git a/web/dist/index.html b/web/dist/index.html
@@ -8,8 +8,8 @@
     <link rel="manifest" href="/manifest.webmanifest" />
     <meta name="theme-color" content="#f5f3ef" />
     <title>Campaign Studio</title>
-    <script type="module" crossorigin src="/assets/index-Cf3FZJhL.js"></script>
-    <link rel="stylesheet" crossorigin href="/assets/index-CJPCjFaV.css">
+    <script type="module" crossorigin src="/assets/index-BFj0VebR.js"></script>
+    <link rel="stylesheet" crossorigin href="/assets/index-BcPyHxCU.css">
   </head>
   <body>
     <div id="root"></div>

diff --git a/web/src/styles.css b/web/src/styles.css
@@ -325,7 +325,8 @@ a.btn { text-decoration: none; }
 .stage {
   position: relative; border-radius: var(--radius); overflow: hidden; background: #e9e5de;
   aspect-ratio: 1 / 1; user-select: none; touch-action: none;
-  width: min(100%, calc(100vh - 470px)); min-width: 320px;
+  /* Sized to the window: 500px at 900px tall. */
+  width: min(100%, calc(100vh - 400px)); min-width: 320px;
 }
 .stage img.loading { opacity: 0; }
 .stage img { transition: opacity 0.2s; }
